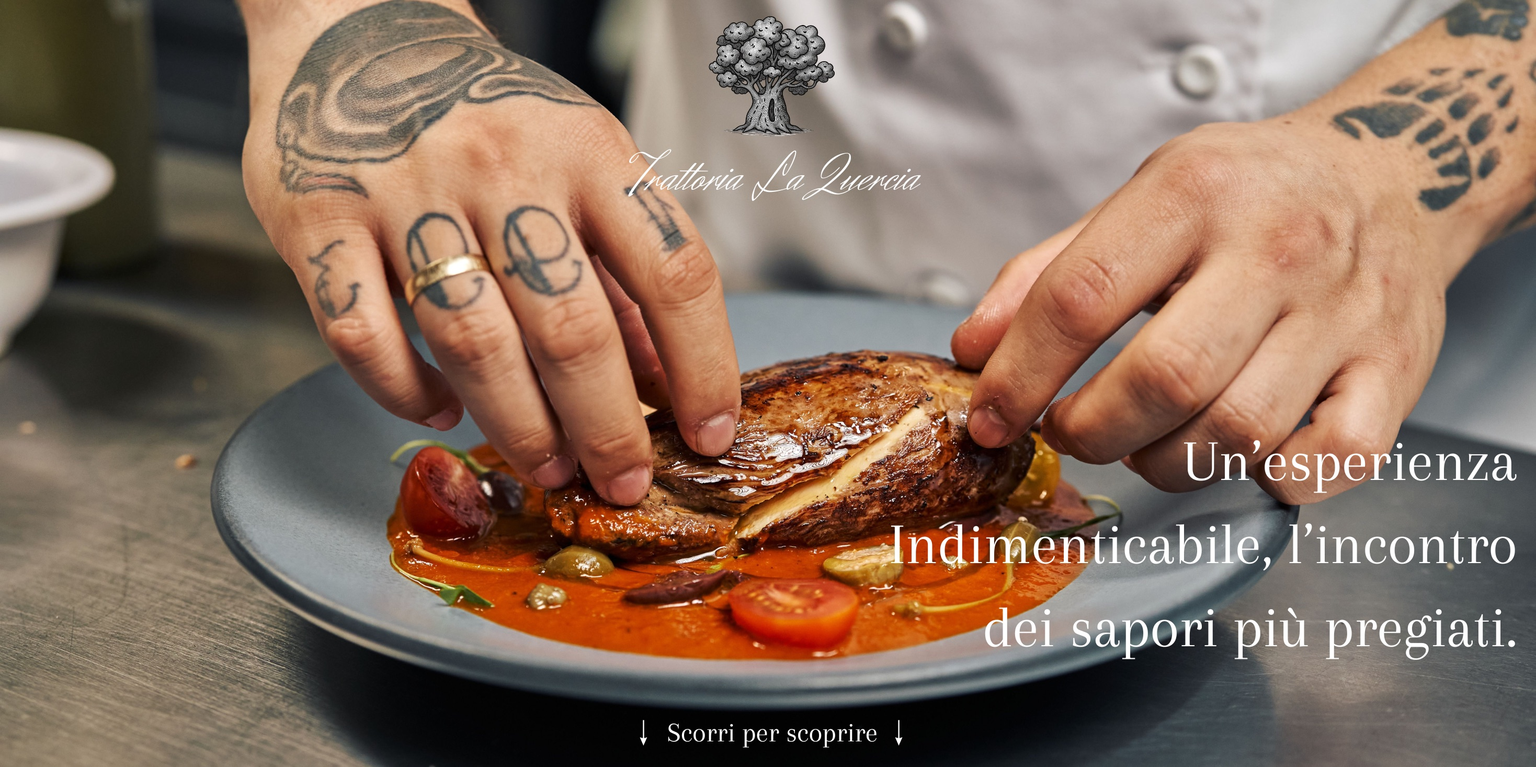
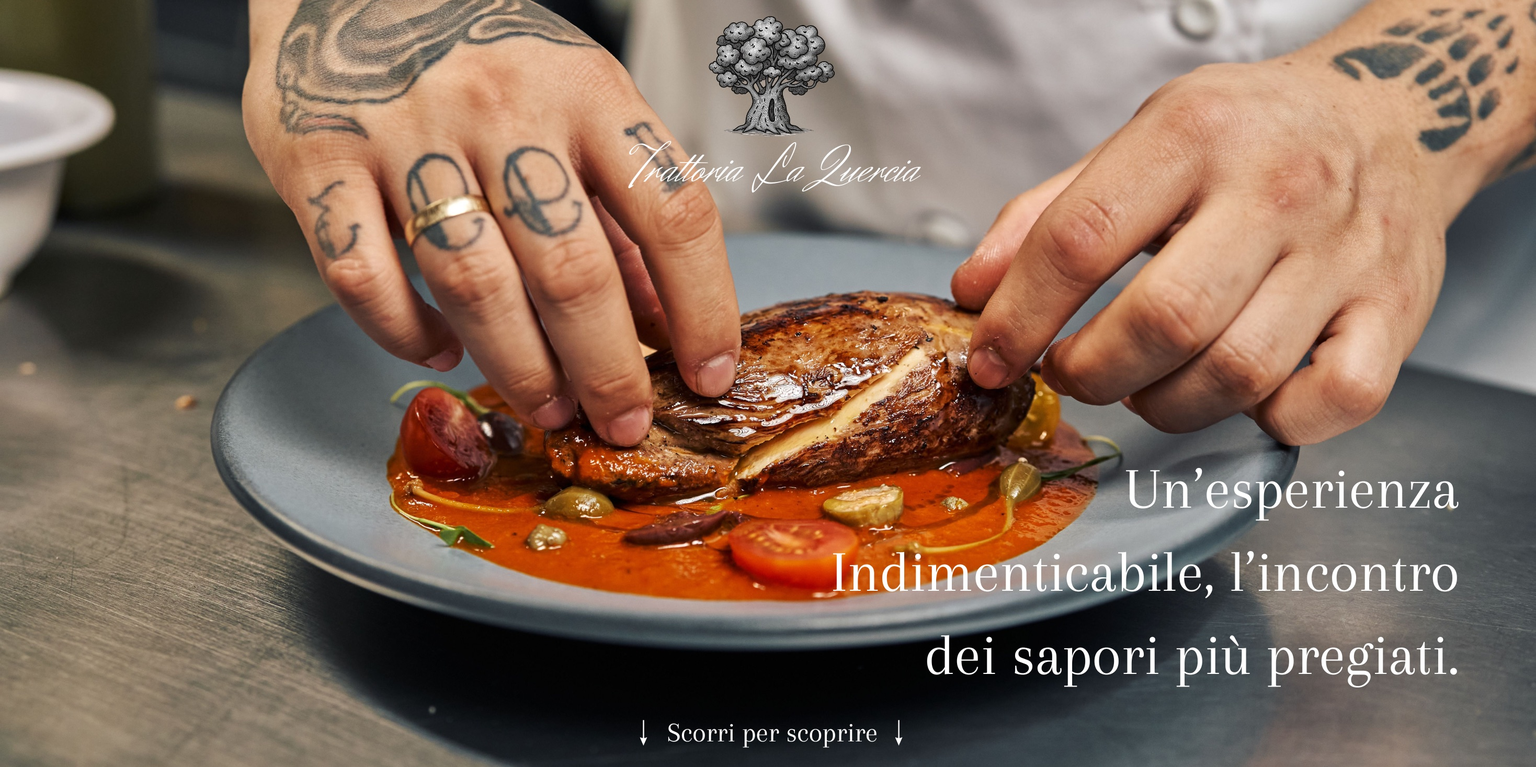
Update after-hero image (fixed text) and section 03 profession photos
- Replace before/after "dopo" with sitobello2 (text no longer clipped)
- Real stock photos per profession in the "Scelta giusta" card, cropped:
  large 640x480 + two 420x315, mapped dentista/avvocato/parrucchiere/ristorante

diff --git a/src/components/ProfessionCompare.tsx b/src/components/ProfessionCompare.tsx
@@ -4,16 +4,18 @@ import confetti from "canvas-confetti";
 import { Check, Play, ChevronLeft, ChevronRight, Calendar, Euro, Bike } from "lucide-react";
 import { DentalGoogleCard, type CardBadge } from "@/components/DentalGoogleCard";
 import { PhoneFrame } from "@/components/PhoneFrame";
-import dental1 from "@/assets/dental-1.jpg";
-import dental2 from "@/assets/dental-2.jpg";
-import dental3 from "@/assets/dental-3.jpg";
-import law1 from "@/assets/law-1.jpg";
-import law2 from "@/assets/law-2.jpg";
-import law3 from "@/assets/law-3.jpg";
-import salon1 from "@/assets/site3-after.jpg";
-import rest1 from "@/assets/rest-1.jpg";
-import rest2 from "@/assets/rest-2.jpg";
-import rest3 from "@/assets/rest-3.jpg";
+import dental1 from "@/assets/dentista-1.jpg";
+import dental2 from "@/assets/dentista-2.jpg";
+import dental3 from "@/assets/dentista-3.jpg";
+import law1 from "@/assets/avvocato-1.jpg";
+import law2 from "@/assets/avvocato-2.jpg";
+import law3 from "@/assets/avvocato-3.jpg";
+import salon1 from "@/assets/parrucchiere-1.jpg";
+import salon2 from "@/assets/parrucchiere-2.jpg";
+import salon3 from "@/assets/parrucchiere-3.jpg";
+import rest1 from "@/assets/ristorante-1.jpg";
+import rest2 from "@/assets/ristorante-2.jpg";
+import rest3 from "@/assets/ristorante-3.jpg";
 import handLeft from "@/assets/hand-photo-left.png";
 import handRight from "@/assets/hand-photo-right.png";
 
@@ -100,7 +102,7 @@ const PROFESSIONS: {
       category: "Parrucchiere specialista",
       address: "Via Roma 88, Milano",
       website: "www.brera13milano.com",
-      photos: [salon1, salon1, salon1],
+      photos: [salon1, salon2, salon3],
       reviewBefore: "Sito inesistente, ho dovuto chiamare più volte per un orario.",
       reviewAfter: "Prenotazione online comoda, foto vere del salone, personale gentile.",
       reviewerBefore: "Giulia P.",
